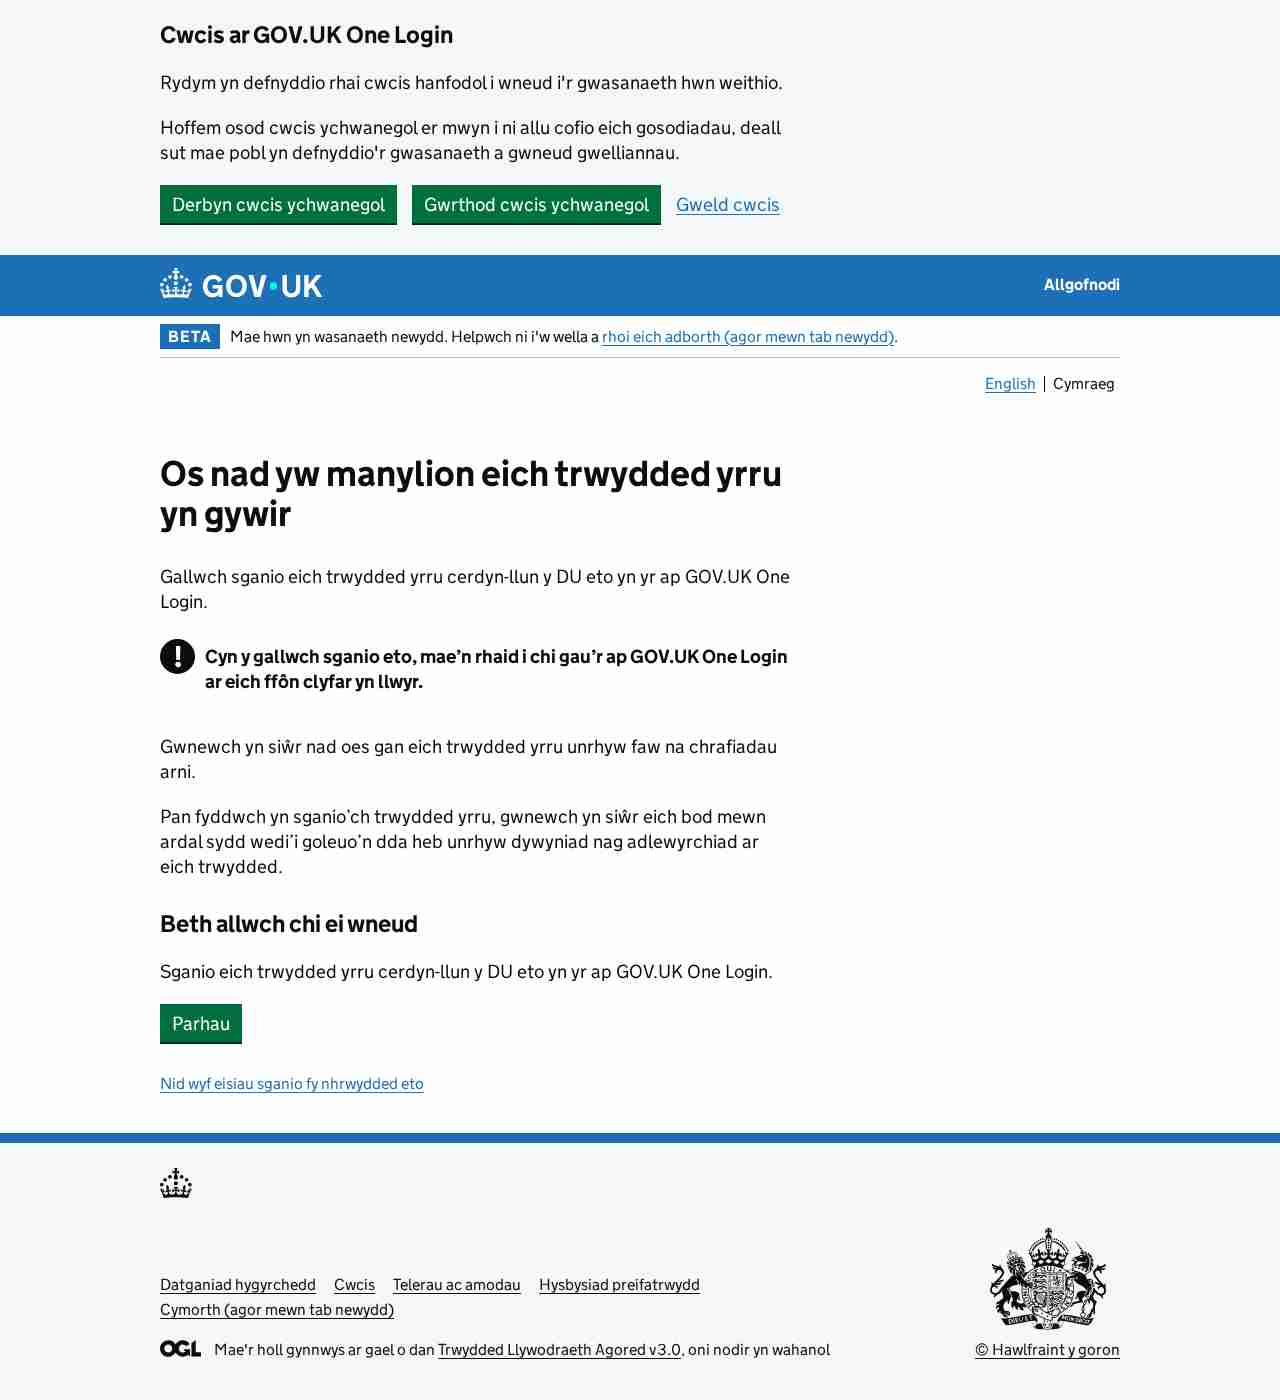
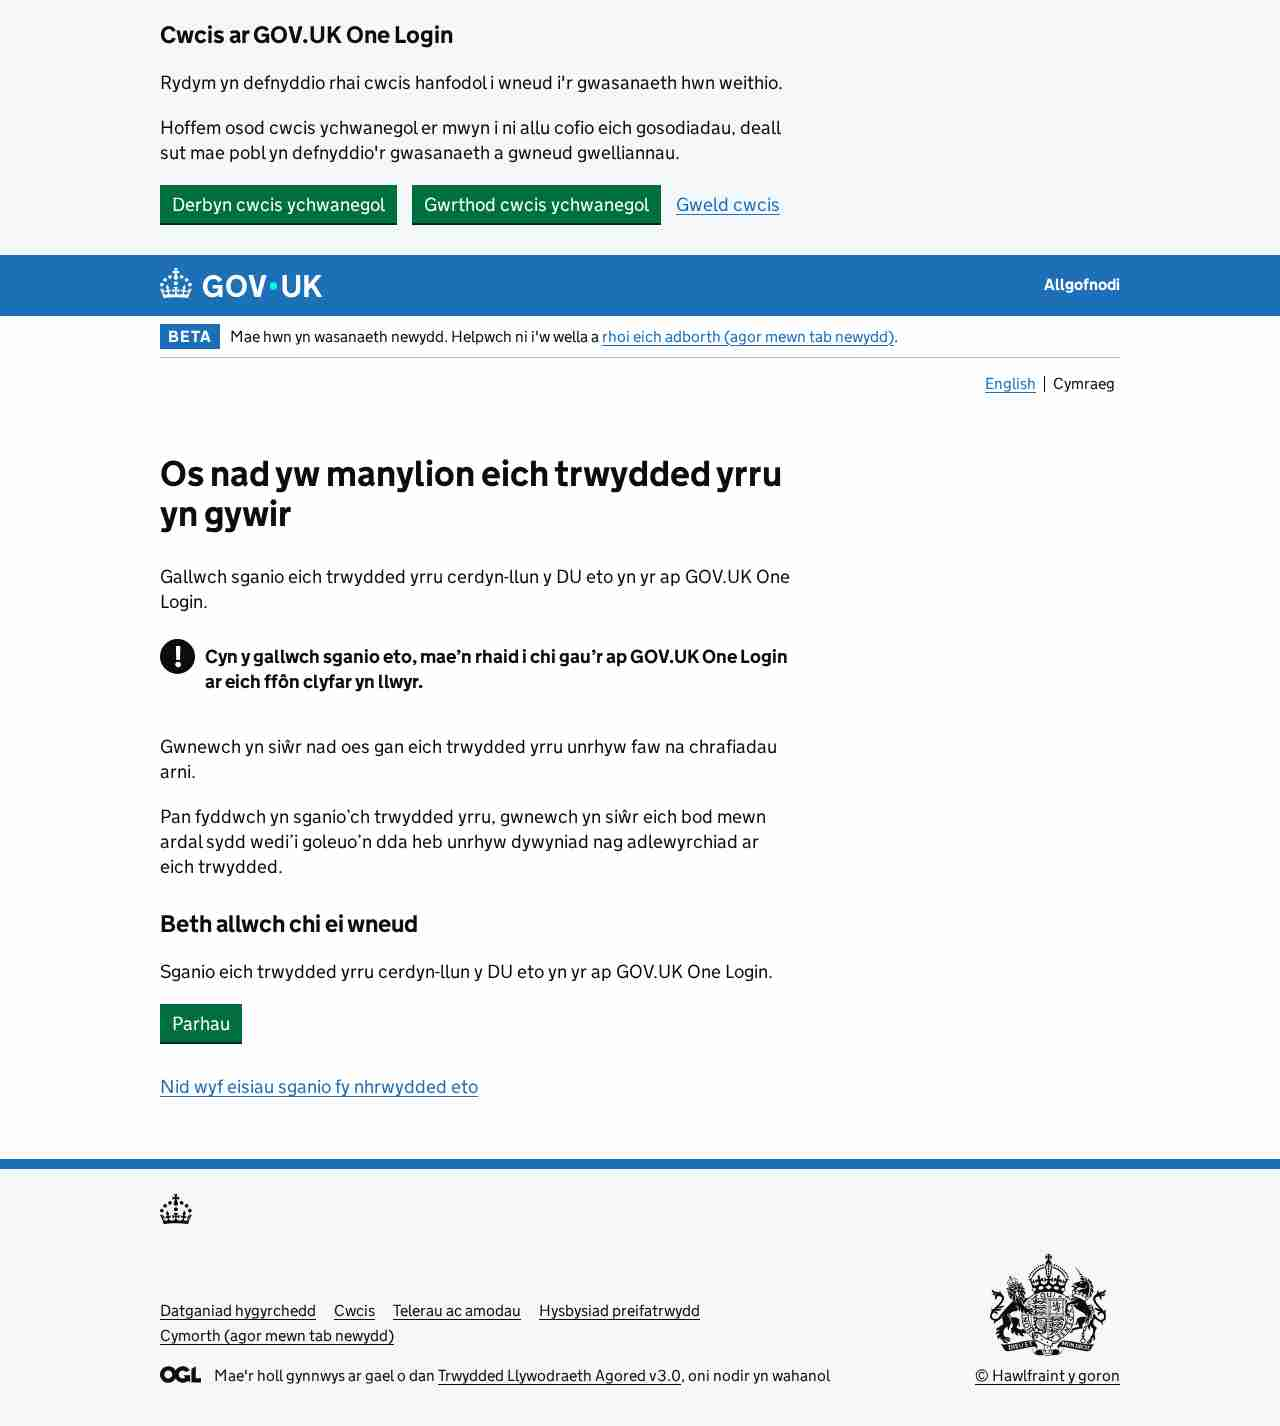
Pyic 9055 new ob pages (#2880)

Pull request: Pyic 9055 new ob pages
## Proposed changes
### What changed

New pages for open banking

### Why did it change

For the new routes

### Issue tracking
<!-- Jira ticket & other docs, like RFCs -->

- [PYIC-9055](https://govukverify.atlassian.net/browse/PYIC-9055)

## Checklists

- [x] READMEs and documentation up-to-date
- [x] Browser/ unit/ Selenium tests have been written/ updated


[PYIC-9055]: https://govukverify.atlassian.net/browse/PYIC-9055?atlOrigin=eyJpIjoiNWRkNTljNzYxNjVmNDY3MDlhMDU5Y2ZhYzA5YTRkZjUiLCJwIjoiZ2l0aHViLWNvbS1KU1cifQ

diff --git a/locales/check-translations.ts b/locales/check-translations.ts
@@ -29,6 +29,33 @@ const UNTRANSLATED_WHITELIST = new Set([
   "pages.pageF2fHandoff.content.thirdCircle",
 
   // Text awaiting translation
+  "pages.selectPhotoId.title",
+  "pages.selectPhotoId.header",
+  "pages.selectPhotoId.content.paragraph1",
+  "pages.selectPhotoId.content.formRadioButtons.ukPassportText",
+  "pages.selectPhotoId.content.formRadioButtons.ukPassportHint",
+  "pages.selectPhotoId.content.formRadioButtons.drivingLicenceText",
+  "pages.selectPhotoId.content.formRadioButtons.drivingLicenceHint",
+  "pages.selectPhotoId.content.formRadioButtons.divider",
+  "pages.selectPhotoId.content.formRadioButtons.neitherText",
+  "pages.selectPhotoId.content.formErrorMessage.errorSummaryTitleText",
+  "pages.selectPhotoId.content.formErrorMessage.errorSummaryDescriptionText",
+  "pages.selectPhotoId.content.formErrorMessage.errorRadioMessage",
+  "pages.proveIdentityOnline.title",
+  "pages.proveIdentityOnline.titlePhotoId",
+  "pages.proveIdentityOnline.header",
+  "pages.proveIdentityOnline.headerPhotoId",
+  "pages.proveIdentityOnline.content.paragraph1",
+  "pages.proveIdentityOnline.content.paragraph1PhotoId",
+  "pages.proveIdentityOnline.content.paragraph2",
+  "pages.proveIdentityOnline.content.insetText",
+  "pages.proveIdentityOnline.content.details1.heading",
+  "pages.proveIdentityOnline.content.details1.paragraph1",
+  "pages.proveIdentityOnline.content.details1.paragraph2",
+  "pages.proveIdentityOnline.content.details1.paragraph3",
+  "pages.proveIdentityOnline.content.details2.heading",
+  "pages.proveIdentityOnline.content.details2.paragraph1",
+  "pages.proveIdentityOnline.content.anotherWayLinkText",
   "pages.appPassportProveIdentity.content.paragraph1",
   "pages.appPassportProveIdentity.content.formRadioButtons.useApp",
   "pages.appPassportProveIdentity.content.formRadioButtons.returnToRp",

diff --git a/src/constants/ipv-pages.ts b/src/constants/ipv-pages.ts
@@ -44,6 +44,7 @@ const IPV_PAGES = Object.freeze({
   PROVE_IDENTITY_ANOTHER_WAY: "prove-identity-another-way",
   PROVE_IDENTITY_NO_OTHER_PHOTO_ID: "prove-identity-no-other-photo-id",
   PROVE_IDENTITY_NO_PHOTO_ID: "prove-identity-no-photo-id",
+  PROVE_IDENTITY_ONLINE: "prove-identity-online",
   PROVE_IDENTITY_ONLINE_BANKING: "prove-identity-online-banking",
   PYI_ANOTHER_WAY: "pyi-another-way",
   PYI_ATTEMPT_RECOVERY: "pyi-attempt-recovery",
@@ -69,6 +70,7 @@ const IPV_PAGES = Object.freeze({
   REPROVE_IDENTITY_START: "reprove-identity-start",
   RETRY_PROVE_IDENTITY_APP: "retry-prove-identity-app",
   RETRY_PROVE_IDENTITY_PASSPORT: "retry-prove-identity-passport",
+  SELECT_PHOTO_ID: "select-photo-id",
   SERVICE_UNAVAILABLE: "service-unavailable",
   SESSION_ENDED: "session-ended",
   SORRY_COULD_NOT_CONFIRM_IDENTITY_REPROVE_FAILURE:

diff --git a/src/test-utils/pages-and-contexts.ts b/src/test-utils/pages-and-contexts.ts
@@ -89,6 +89,7 @@ export const pagesAndContexts: PagesAndContexts = {
     { nino: { ninoOnly: true } },
     NO_CONTEXT_VARIANT,
   ],
+  "prove-identity-online": [{ photoId: { photoId: true } }, NO_CONTEXT_VARIANT],
   "prove-identity-online-banking": [
     { noPhotoId: { noPhotoId: true } },
     NO_CONTEXT_VARIANT,
@@ -141,6 +142,7 @@ export const pagesAndContexts: PagesAndContexts = {
     NO_CONTEXT_VARIANT,
   ],
   "retry-prove-identity-passport": [],
+  "select-photo-id": [],
   "service-unavailable": [],
   "session-ended": [],
   "sorry-could-not-confirm-details": [

diff --git a/src/types/page-contexts.ts b/src/types/page-contexts.ts
@@ -15,6 +15,7 @@ type PageContextMap = {
   "prove-identity-another-way": { removeF2f: boolean };
   "prove-identity-no-other-photo-id": { invalidDoc: string };
   "prove-identity-no-photo-id": { ninoOnly: boolean };
+  "prove-identity-online": { photoId: boolean };
   "prove-identity-online-banking": { noPhotoId: boolean };
   "pyi-no-match": { reason: string };
   "pyi-technical": { isUnrecoverable: boolean };

diff --git a/.kiro/steering/tech.md b/.kiro/steering/tech.md
@@ -16,6 +16,26 @@
 - Unit tests use Mocaha, Sinon, and Chai.
 - Browser tests have their own folder and use PlayWright
 
+# Page conventions
+When creating new pages:
+- Use curly quotes (\u2018 \u2019) not straight quotes (') in translation text. Use the actual characters, not unicode escape sequences (\u2018, \u2019).
+- Use GOV.UK Design System macros (govukDetails, govukInsetText, govukRadios, etc.) rather than writing raw HTML for components.
+- Nunjucks tags should have a space before the closing `%}`, e.g. `{% set contentID = 'abc' %}` not `{% set contentID = 'abc'%}`.
+- When a page has a hardcoded link to its own journey action, use the page name directly (e.g. `/ipv/journey/my-page/anotherWay`) rather than `{{ pageId }}`.
+- When creating a new page, also add entries to: `src/constants/ipv-pages.ts`, `src/test-utils/pages-and-contexts.ts`, and both `locales/en/translation.json` and `locales/cy/translation.json`. See `views/README.md` for the full checklist.
+
+# Context-aware translations
+When a page uses `pageContext` to vary its content, the translation key naming works as follows:
+- The context type is defined as a boolean in `src/types/page-contexts.ts`, e.g. `{ photoId: boolean }`.
+- `getPageContextValue` in `src/config/nunjucks.ts` converts boolean `true` to PascalCase of the context key name (e.g. `photoId` → `"PhotoId"`). `false` returns `""` (uses base key).
+- The context suffix is appended directly to the base key name to form the variant key.
+- Example: for context key `photoId` with value `true`, base key `header` resolves to `headerPhotoId`.
+- The base key (e.g. `header`) is the fallback when context is missing or false.
+- In the template, use `| translateWithPageContextOrFallback(pageContext, 'photoId')` for content and `| fullKeyWithContext(pageContext, 'photoId')` for `pageTitleKey`.
+- In `pages-and-contexts.ts`, register variants like: `{ photoId: { photoId: true } }, NO_CONTEXT_VARIANT`.
+- Dynamic pages must set `{% set isPageDynamic = true %}` for analytics.
+- Dynamic pages should have a different `contentID` for each context variant. If someone requests a dynamic page without providing multiple contentID values, ask them for the additional values.
+
 # Misc
 - Check package.json for the full list of packages used by the site.
 - Check README files for more information about the project.